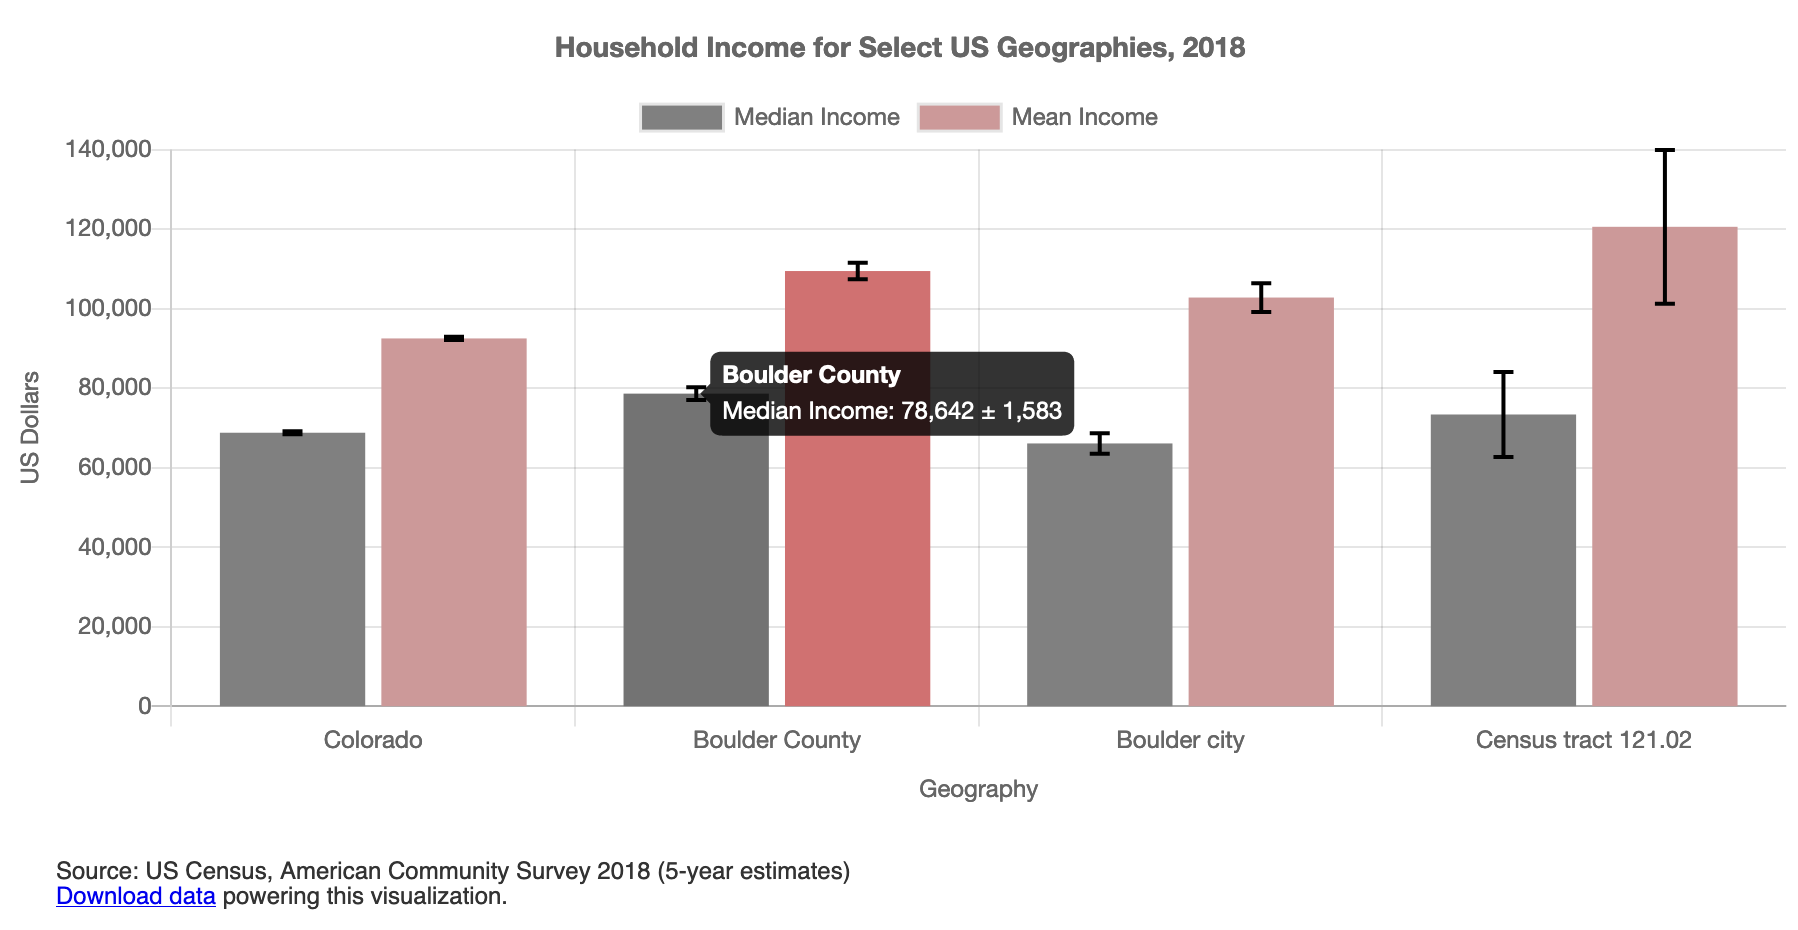
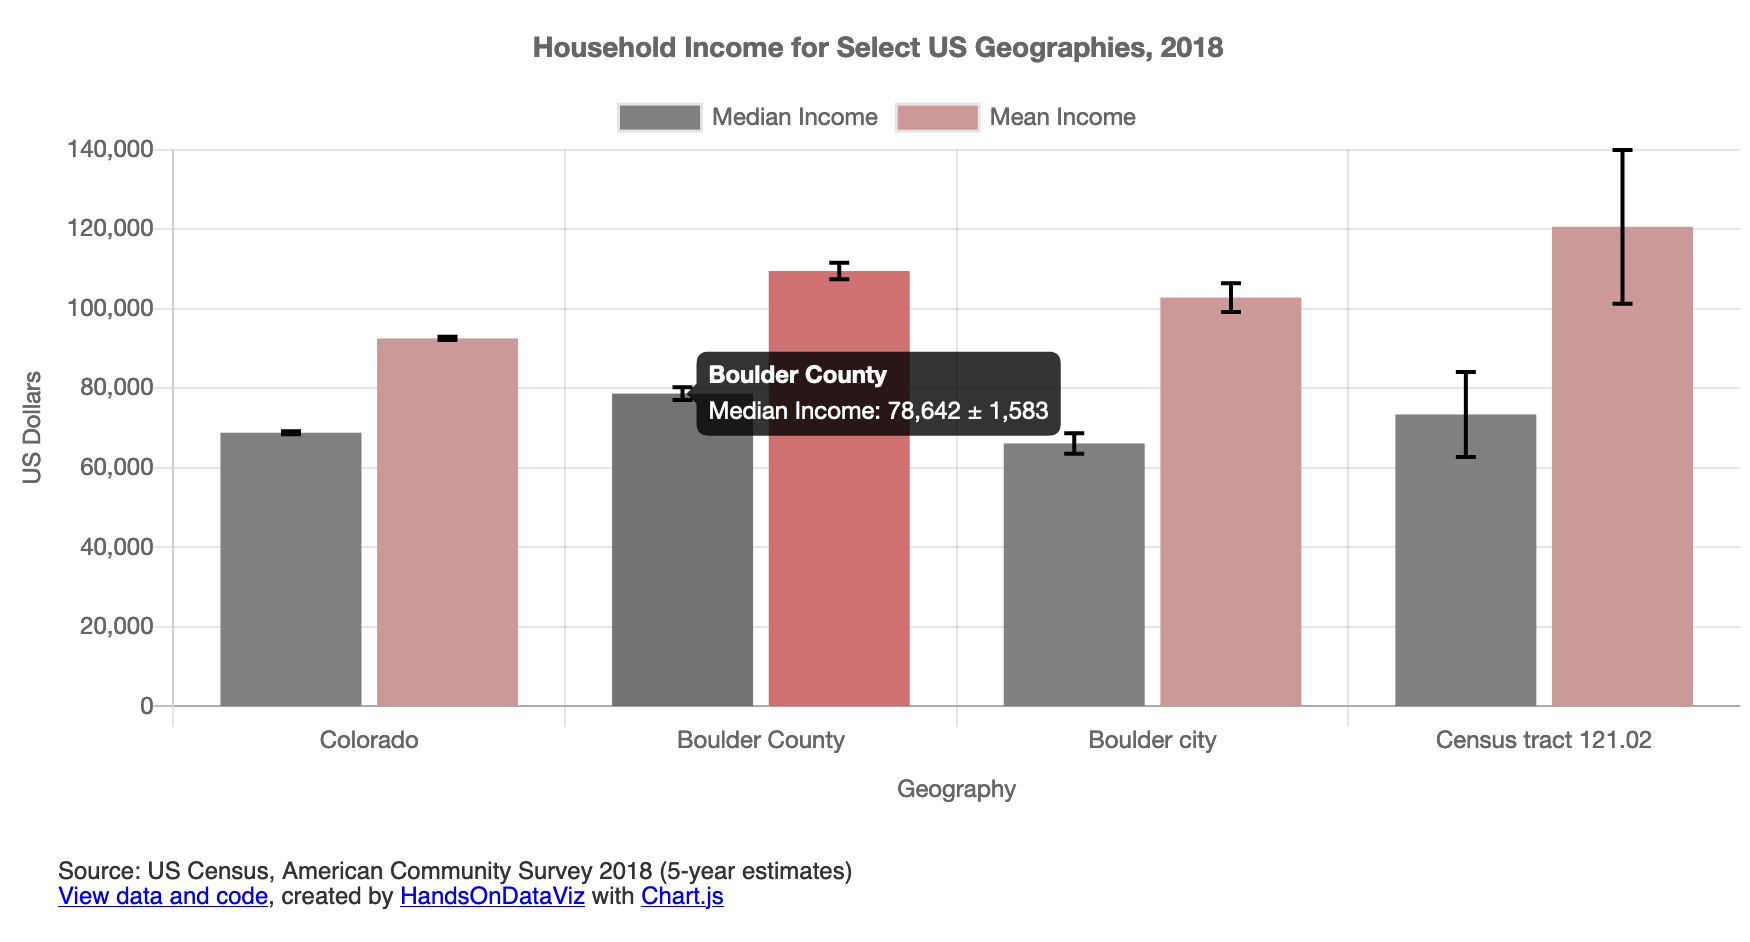
Modify credits line, update screenshot

diff --git a/index.html b/index.html
@@ -19,12 +19,14 @@
 
   <body>
 
-    <canvas id="container" style="width:100%; height:400px;"></canvas>
+    <canvas id="container" style="width:100%; height:400px"></canvas>
     
     <p style="font-family: Helvetica; color: #333; padding: 1em 2em; font-size: 12px">
       Source: US Census, American Community Survey 2018 (5-year estimates)
       <br>
-      <a href="./data.csv">Download data</a> powering this visualization.
+      <a href="https://github.com/HandsOnDataViz/chartjs-error-bars">View data and code</a>,
+      created by <a href="https://handsondataviz.org/">HandsOnDataViz</a>
+      with <a href="https://www.chartjs.org/">Chart.js</a>
     </p>
 
     <script src="./script.js"></script>
